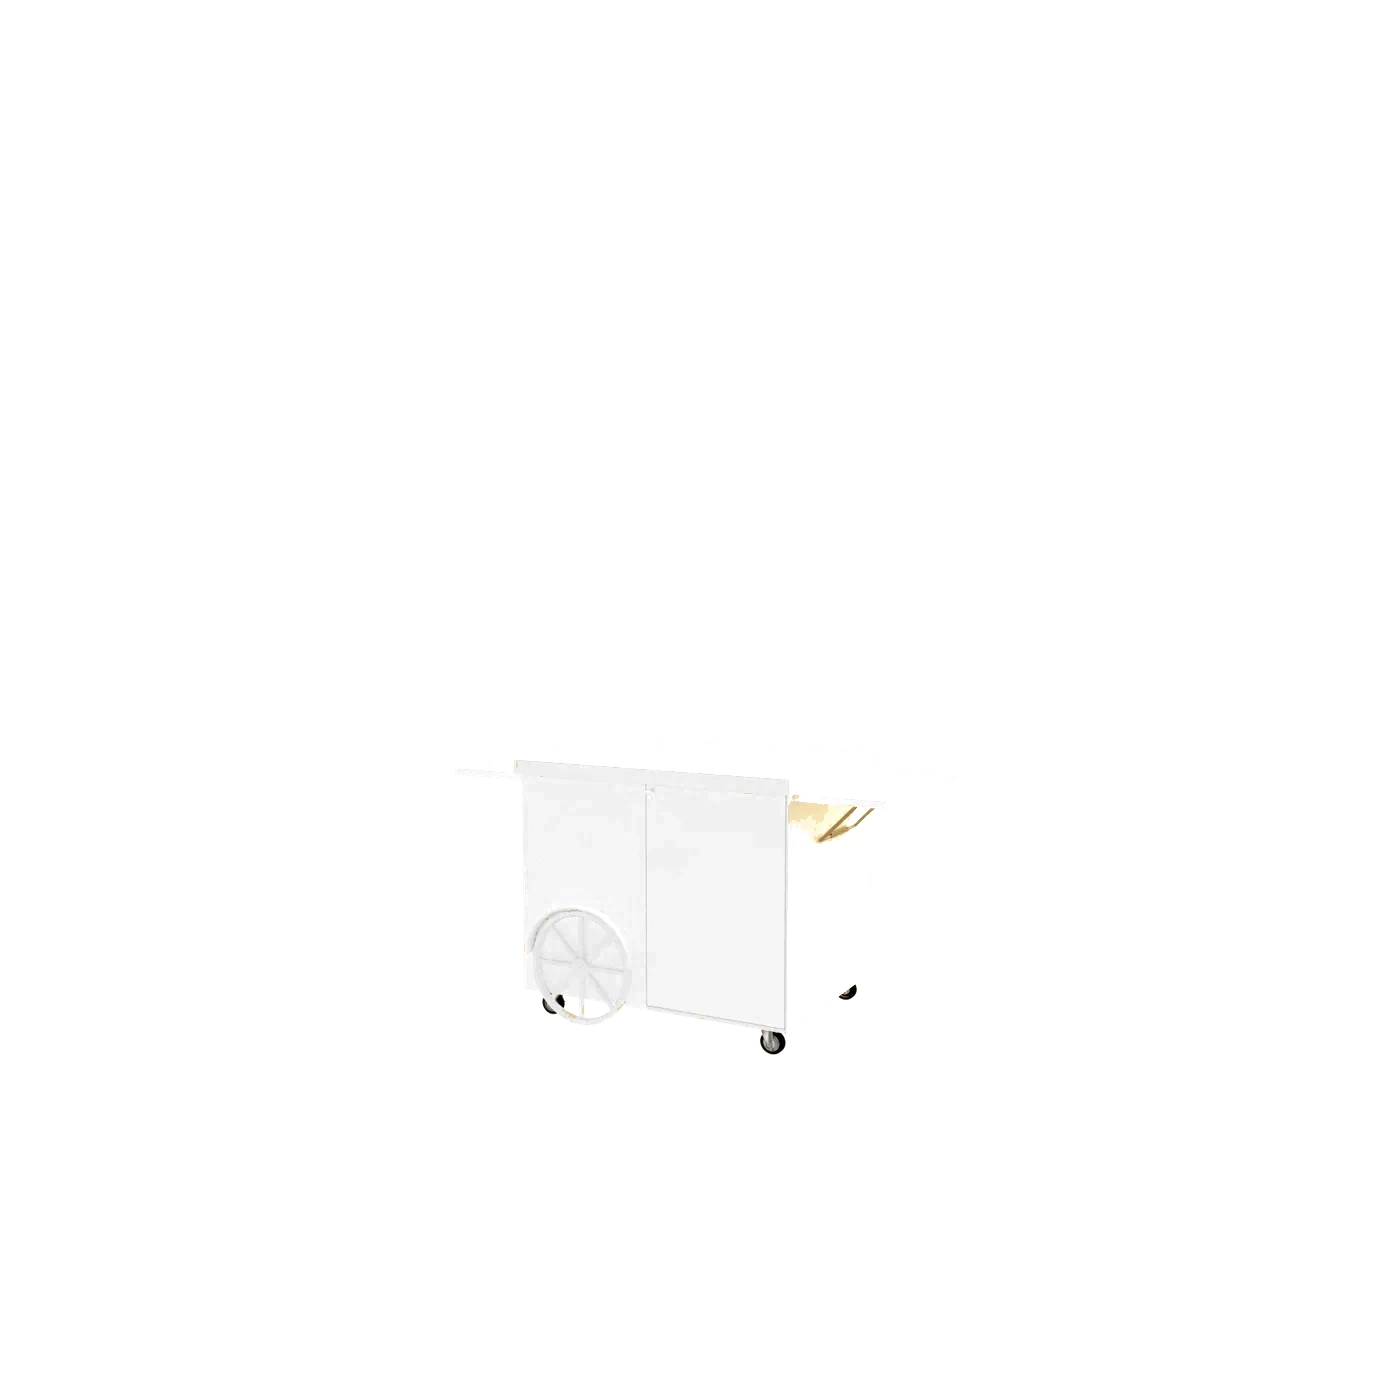
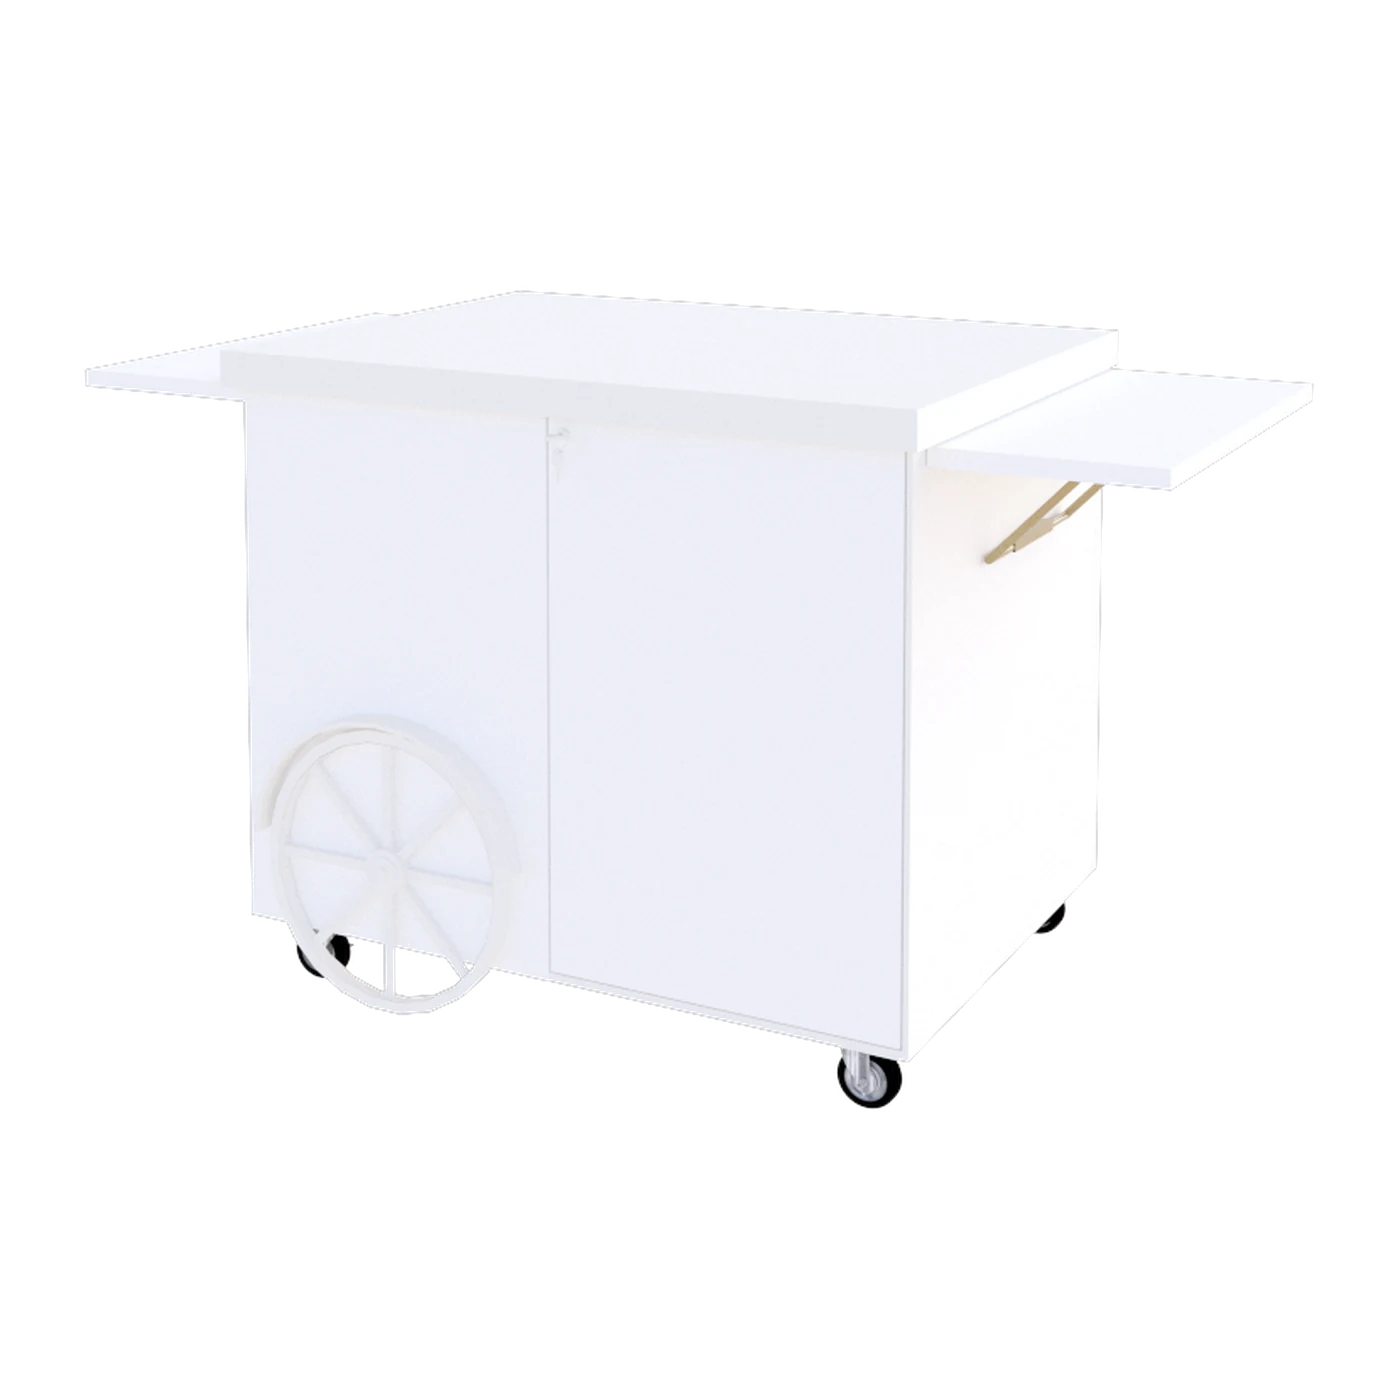
Konfiguratur: 100 rafli beyaz set icin gercek Lake render'lari
Lake (parlak) secimi artik CSS filtresi yerine V-Ray'den uretilen
gercek -lake.webp gorsellerini kullaniyor; govde reflection gercek.
Sadece 100 rafli beyaz sette aktif (realLake), renkli/metal/giydirme
setlerinde eski CSS filtresi korunuyor. 25 beyaz hero acisi icin lake set.

diff --git a/src/routeTree.gen.ts b/src/routeTree.gen.ts
@@ -15,6 +15,7 @@ import { Route as RefundRouteImport } from './routes/refund'
 import { Route as PrivacyRouteImport } from './routes/privacy'
 import { Route as FaqRouteImport } from './routes/faq'
 import { Route as ContactInfoRouteImport } from './routes/contact-info'
+import { Route as AdminRouteImport } from './routes/admin'
 import { Route as AboutRouteImport } from './routes/about'
 import { Route as IndexRouteImport } from './routes/index'
 import { Route as ProductsIndexRouteImport } from './routes/products.index'
@@ -50,6 +51,11 @@ const ContactInfoRoute = ContactInfoRouteImport.update({
   path: '/contact-info',
   getParentRoute: () => rootRouteImport,
 } as any)
+const AdminRoute = AdminRouteImport.update({
+  id: '/admin',
+  path: '/admin',
+  getParentRoute: () => rootRouteImport,
+} as any)
 const AboutRoute = AboutRouteImport.update({
   id: '/about',
   path: '/about',
@@ -74,6 +80,7 @@ const ProductsSlugRoute = ProductsSlugRouteImport.update({
 export interface FileRoutesByFullPath {
   '/': typeof IndexRoute
   '/about': typeof AboutRoute
+  '/admin': typeof AdminRoute
   '/contact-info': typeof ContactInfoRoute
   '/faq': typeof FaqRoute
   '/privacy': typeof PrivacyRoute
@@ -86,6 +93,7 @@ export interface FileRoutesByFullPath {
 export interface FileRoutesByTo {
   '/': typeof IndexRoute
   '/about': typeof AboutRoute
+  '/admin': typeof AdminRoute
   '/contact-info': typeof ContactInfoRoute
   '/faq': typeof FaqRoute
   '/privacy': typeof PrivacyRoute
@@ -99,6 +107,7 @@ export interface FileRoutesById {
   __root__: typeof rootRouteImport
   '/': typeof IndexRoute
   '/about': typeof AboutRoute
+  '/admin': typeof AdminRoute
   '/contact-info': typeof ContactInfoRoute
   '/faq': typeof FaqRoute
   '/privacy': typeof PrivacyRoute
@@ -113,6 +122,7 @@ export interface FileRouteTypes {
   fullPaths:
     | '/'
     | '/about'
+    | '/admin'
     | '/contact-info'
     | '/faq'
     | '/privacy'
@@ -125,6 +135,7 @@ export interface FileRouteTypes {
   to:
     | '/'
     | '/about'
+    | '/admin'
     | '/contact-info'
     | '/faq'
     | '/privacy'
@@ -137,6 +148,7 @@ export interface FileRouteTypes {
     | '__root__'
     | '/'
     | '/about'
+    | '/admin'
     | '/contact-info'
     | '/faq'
     | '/privacy'
@@ -150,6 +162,7 @@ export interface FileRouteTypes {
 export interface RootRouteChildren {
   IndexRoute: typeof IndexRoute
   AboutRoute: typeof AboutRoute
+  AdminRoute: typeof AdminRoute
   ContactInfoRoute: typeof ContactInfoRoute
   FaqRoute: typeof FaqRoute
   PrivacyRoute: typeof PrivacyRoute
@@ -204,6 +217,13 @@ declare module '@tanstack/react-router' {
       preLoaderRoute: typeof ContactInfoRouteImport
       parentRoute: typeof rootRouteImport
     }
+    '/admin': {
+      id: '/admin'
+      path: '/admin'
+      fullPath: '/admin'
+      preLoaderRoute: typeof AdminRouteImport
+      parentRoute: typeof rootRouteImport
+    }
     '/about': {
       id: '/about'
       path: '/about'
@@ -238,6 +258,7 @@ declare module '@tanstack/react-router' {
 const rootRouteChildren: RootRouteChildren = {
   IndexRoute: IndexRoute,
   AboutRoute: AboutRoute,
+  AdminRoute: AdminRoute,
   ContactInfoRoute: ContactInfoRoute,
   FaqRoute: FaqRoute,
   PrivacyRoute: PrivacyRoute,

diff --git a/src/components/CustomizeDialog.tsx b/src/components/CustomizeDialog.tsx
@@ -191,13 +191,22 @@ export function CustomizeDialog({ product, open, onOpenChange }: Props) {
     variant === "" &&
     !hasAsset &&
     (renderBase === "/renders" || renderBase === "/renders/150");
+  // Gerçek Lake render'ı (V-Ray gövde reflection) ŞU AN sadece 100 raflı beyaz sette var.
+  // Orada CSS lake filtresi yerine gerçek -lake webp kullanılır; diğer setlerde CSS devam eder.
+  const realLake =
+    isLake &&
+    renderBase === "/renders/100-rafli" &&
+    !COLOR_RENDER_IDS.has(colorId) &&
+    !hasAsset &&
+    !metalActive;
+  const lakeSuffix = realLake ? "-lake" : "";
   const previewSrc = hasAsset
     ? `${renderBase}/hero-${angle}${variant}-nologo.webp`
     : COLOR_RENDER_IDS.has(colorId)
       ? `${renderBase}/hero-${colorId}-${angle}${variant}.webp`
       : metalActive
         ? `${renderBase}/hero-${angle}-metal-${selection.metalRengi}.webp`
-        : `${renderBase}/hero-${angle}${variant}.webp`;
+        : `${renderBase}/hero-${angle}${variant}${lakeSuffix}.webp`;
 
   // Aktif açıda önizlenecek yüzeyler: yok değil + ilgili görsel yüklü + tente
   // ise tente açık. Her yüzey kendi seçtiği görseli (logo/giydirme) gösterir.
@@ -634,7 +643,7 @@ export function CustomizeDialog({ product, open, onOpenChange }: Props) {
                     alt="mockup"
                     className="absolute inset-0 w-full h-full object-contain"
                     style={
-                      isLake
+                      isLake && !realLake
                         ? { filter: "contrast(1.1) saturate(1.12) brightness(1.03)" }
                         : undefined
                     }
@@ -645,7 +654,7 @@ export function CustomizeDialog({ product, open, onOpenChange }: Props) {
                     ref={canvasRef}
                     className="absolute inset-0 w-full h-full pointer-events-none"
                     style={
-                      isLake
+                      isLake && !realLake
                         ? { filter: "contrast(1.1) saturate(1.12) brightness(1.03)" }
                         : undefined
                     }
